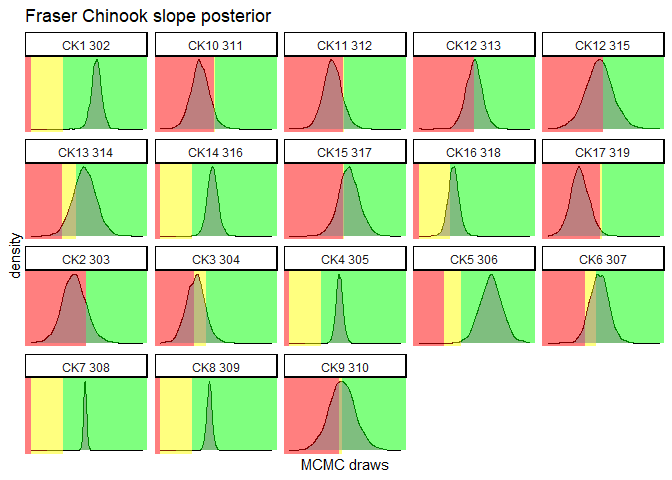
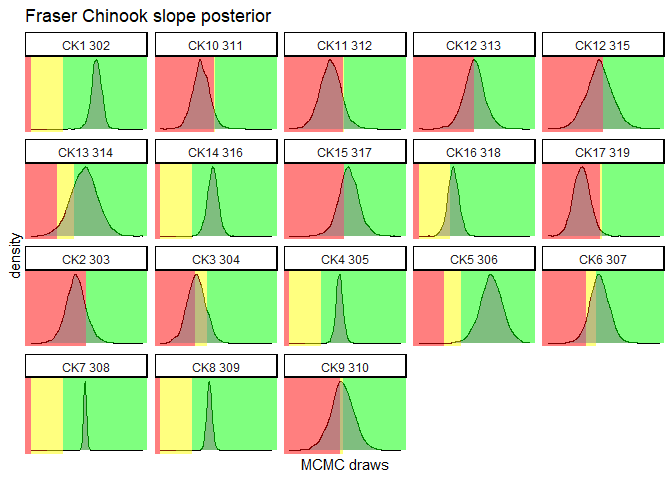
added some context to the posterior plots

diff --git a/prioritize.md b/prioritize.md
@@ -222,8 +222,28 @@ perc_category <- slope_posterior %>%
             least_concern = round(sum((-30)>draw & draw>(-50))/n()*100, 2), 
             threatened = round(sum(draw<(-50) & draw>(-70))/n()*100, 2), 
             endangered = round(sum(draw<(-70))/n()*100, 2))
+head(perc_category)
 ```
+
+    ## # A tibble: 6 x 7
+    ## # Groups:   species, region [1]
+    ##   species region du_cu    not_at_risk least_concern threatened endangered
+    ##   <chr>   <chr>  <chr>          <dbl>         <dbl>      <dbl>      <dbl>
+    ## 1 Chinook CC     CK32 509        87.0          9.17       2.43       1.37
+    ## 2 Chinook CC     CK33 510         0            0.2        1.23      98.6 
+    ## 3 Chinook CC     CK34 511        76.4          4          3.57      16   
+    ## 4 Chinook CC     CK35 512        83.2          0.63       0.8       15.4 
+    ## 5 Chinook CC     CK36 513        32.7         10         10.6       46.6 
+    ## 6 Chinook CC     CK37 514        13.9          4.87       4.9       76.4
 
 ### Plot slope posterior distributions
 
+These distributions show the probability (i.e. each markov chain monte
+carlo draw) that the slope of the last 3 generations, which is like the
+red line in the figures above. The distribution is plotted over the
+decline categories specified above. It’s essentially a visualization of
+the perc_category dataframe.  
+The amount of the distribution in the green region means the population
+is experiencing less than 30% declines, the red region says the
+population is declining by 70% or more, and yellow is intermediate.
 ![](output/plots/slope%20posteriors-1.png)<!-- -->![](output/plots/slope%20posteriors-2.png)<!-- -->![](output/plots/slope%20posteriors-3.png)<!-- -->![](output/plots/slope%20posteriors-4.png)<!-- -->![](output/plots/slope%20posteriors-5.png)<!-- -->![](output/plots/slope%20posteriors-6.png)<!-- -->![](output/plots/slope%20posteriors-7.png)<!-- -->![](output/plots/slope%20posteriors-8.png)<!-- -->![](output/plots/slope%20posteriors-9.png)<!-- -->![](output/plots/slope%20posteriors-10.png)<!-- -->![](output/plots/slope%20posteriors-11.png)<!-- -->![](output/plots/slope%20posteriors-12.png)<!-- -->![](output/plots/slope%20posteriors-13.png)<!-- -->![](output/plots/slope%20posteriors-14.png)<!-- -->![](output/plots/slope%20posteriors-15.png)<!-- -->
